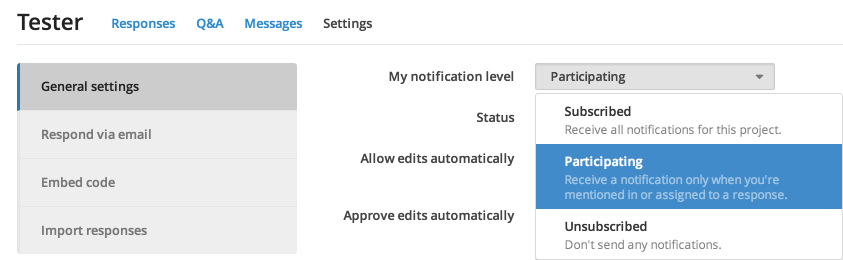
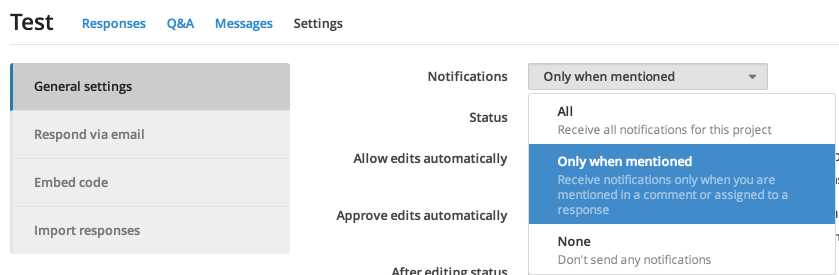
reflect new notification levels
per dobtco/screendoor-v2#1102

diff --git a/contents/articles/screendoor/projects/notifications.md b/contents/articles/screendoor/projects/notifications.md
@@ -8,17 +8,17 @@ app_pages:
 
 ## Configuring project notifications
 
-When you create a project, your notification level for that project will be Subscribed by default. If you are added to a project, it will be Participating. To change your notification level for a project, select a notification level from the "Settings" page.
+When you create a project, you'll receive all notifications for that project by default. If you're added to a project, you'll only receive notifications if you're mentioned in a comment or assigned to a response, by default. To change your notification setting for a project, select an option from the "Settings" page.
 
 ![project notification level](../images/project_notification_level.png)
 
 ## Configuring response notifications
 
-When you're Subscribed to a project, you'll also get Subscribed to all new responses by default. If you're not Subscribed to a project, you'll only be Subscribed to a response when you're mentioned in or assigned to it.
+If you're receiving all notifications for a project, you'll also receive all notifications for new responses by default. Otherwise, you'll only receive notifications when you're mentioned in a comment or assigned to a response.
 
-To change your notification level for a response, simply select the appropriate notification level from the "Notifications" dropdown on the response page.
+To change your notification setting for a response, simply select the appropriate option from the "Notifications" dropdown on the response page.
 
 ![response notification level](../images/response_notification_level.png)
 
-> **Note**: If you set your notification level for a response to Ignoring, you will not receive any notifications for that response, even if someone assigns you to it.
+> **Note**: If you select "Ignore" for a response, you will not receive any notifications for that response, even if someone assigns you to it or mentions you in a comment.
 
